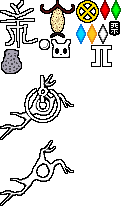
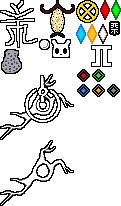
fix warp point positioning being inverted, update to new unlock styles

Changed region(s): [[0.6198, 0.3204, 0.9917, 0.4951]]

diff --git a/SpriteAtlases.cs b/SpriteAtlases.cs
@@ -146,11 +146,11 @@ namespace Cornifer
             { "KarmaFlower",      (new(76, 0,   23, 23), new(255, 255, 255, 255)) },
             { "SeedCob",          (new(40, 0,   35, 38), new(255, 255, 255, 255)) },
             { "GhostSpot",        (new(0,  0,   38, 48), new(255, 255, 255, 255)) },
-            { "BlueToken",        (new(76, 24,  10, 20), new(255, 255, 255, 150)) },
-            { "GoldToken",        (new(87, 24,  10, 20), new(255, 255, 255, 150)) },
-            { "RedToken",         (new(100, 0,  10, 20), new(255, 255, 255, 150)) },
-            { "DevToken",         (new(98, 24,  10, 20), new(255, 255, 255, 150)) },
-            { "GreenToken",       (new(111, 0,  10, 20), new(255, 255, 255, 150)) },
+            { "BlueToken",        (new(77, 84,  13, 13), new(255, 255, 255, 0.75f)) },
+            { "GoldToken",        (new(92, 84,  13, 13), new(255, 255, 255, 0.75f)) },
+            { "RedToken",         (new(77, 69,  13, 13), new(255, 255, 255, 0.75f)) },
+            { "DevToken",         (new(107, 84, 13, 13), new(255, 255, 255, 0.75f)) },
+            { "GreenToken",       (new(92, 69,  13, 13), new(255, 255, 255, 0.75f)) },
             { "DataPearl",        (new(39, 39,  11, 11), new(255, 255, 255, 255)) },
             { "UniqueDataPearl",  (new(39, 39,  11, 11), new(255, 255, 255, 255)) },
             { "Slugcat",          (new(51, 39,  20, 19), new(255, 255, 255, 255)) },

diff --git a/MapObjects/Room.cs b/MapObjects/Room.cs
@@ -501,7 +501,7 @@ namespace Cornifer.MapObjects
 									case "WarpPoint":
 									case "SpinningTopSpot":
 										isWarpRoom = true;
-										WarpPos = new(obj.RoomPos.X, obj.RoomPos.Y);
+										WarpPos = new(obj.RoomPos.X, TileSize.Y - obj.RoomPos.Y);
 										WarpTarget = obj.TargetRegion;
 
 										if (obj.Type == "SpinningTopSpot") objects.Add(obj);
@@ -561,7 +561,19 @@ namespace Cornifer.MapObjects
 								obj.AddAvailabilityIcons();
 								Children.Add(obj);
 							}
-                        }
+
+							if (obj.Type == "RedToken") {
+								MapText arenaText = new("WarpTargetText", Main.DefaultSmallMapFont, "Arena");
+								arenaText.Color.Value = new(null, Color.Red);
+								arenaText.ParentPosAlign = obj.RoomPos / TileSize.ToVector2();
+								Children.Add(arenaText);
+							} else if (obj.Type == "GoldToken") {
+								MapText safariText = new("WarpTargetText", Main.DefaultSmallMapFont, "Safari");
+								safariText.Color.Value = new(null, new Color(255, 153, 13));
+								safariText.ParentPosAlign = obj.RoomPos / TileSize.ToVector2();
+								Children.Add(safariText);
+							}
+						}
                     }
                     else if (split[0] == "Effects")
                     {
